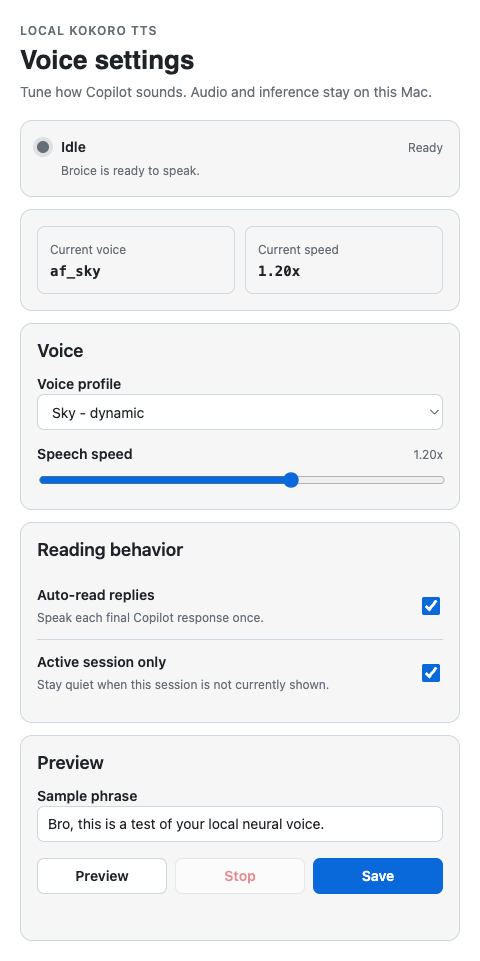
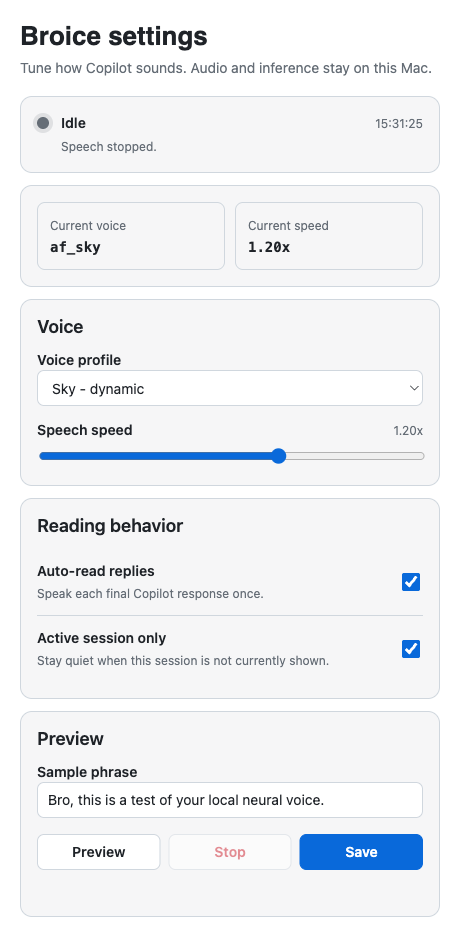
Update settings UI screenshot and capabilities in README

diff --git a/README.md b/README.md
@@ -19,7 +19,7 @@ are checksum-verified, and preserve your settings and downloaded model files. Up
 code becomes active the next time Copilot reloads extensions or restarts.
 
 <p align="center">
-  <img src="docs/settings-panel.png" alt="Broice voice settings panel inside GitHub Copilot" width="480">
+  <img src="docs/settings-panel.png" alt="Broice settings panel inside GitHub Copilot" width="480">
 </p>
 
 ---
@@ -30,12 +30,12 @@ code becomes active the next time Copilot reloads extensions or restarts.
 |---|---|
 | **Fully local** | Neural inference runs on your Mac's CPU / Neural Engine via ONNX Runtime. Nothing is sent anywhere. |
 | **Auto-read responses** | Speaks each final Copilot reply once the full tool-use loop finishes, but only from the session currently shown. |
-| **Live voice settings** | A theme-aware side panel to configure speech and watch setup, speaking, idle, and error state update live. |
+| **Live Broice settings** | A theme-aware side panel to configure speech and watch setup, speaking, idle, and error state update live. |
 | **Multi-session safe** | Serializes shared environment setup so simultaneous extension processes cannot corrupt the voice runtime. |
 | **Mid-speech stop** | Cancel playback instantly via button, slash command, or natural language. |
 | **Smart speech rules** | Skips emojis, and reads `install.sh` as "install dot sh" instead of two separate words. |
 | **Self-bootstrapping** | On first run it creates its own Python venv and downloads model weights automatically. |
-| **10 voices** | American and British, male and female. |
+| **10 voices** | American and British, male and female voices across natural, articulate, dynamic, and professional styles. |
 
 ---
 
@@ -214,7 +214,7 @@ By default, Broice checks Copilot's foreground session before starting playback 
 
 ## Voices
 
-| Voice ID | Accent | Character |
+| Voice ID | Accent & Gender | Character / Style |
 |---|---|---|
 | `af_sarah` | American Female | Warm, natural (default) |
 | `af_bella` | American Female | Soft, clear |
